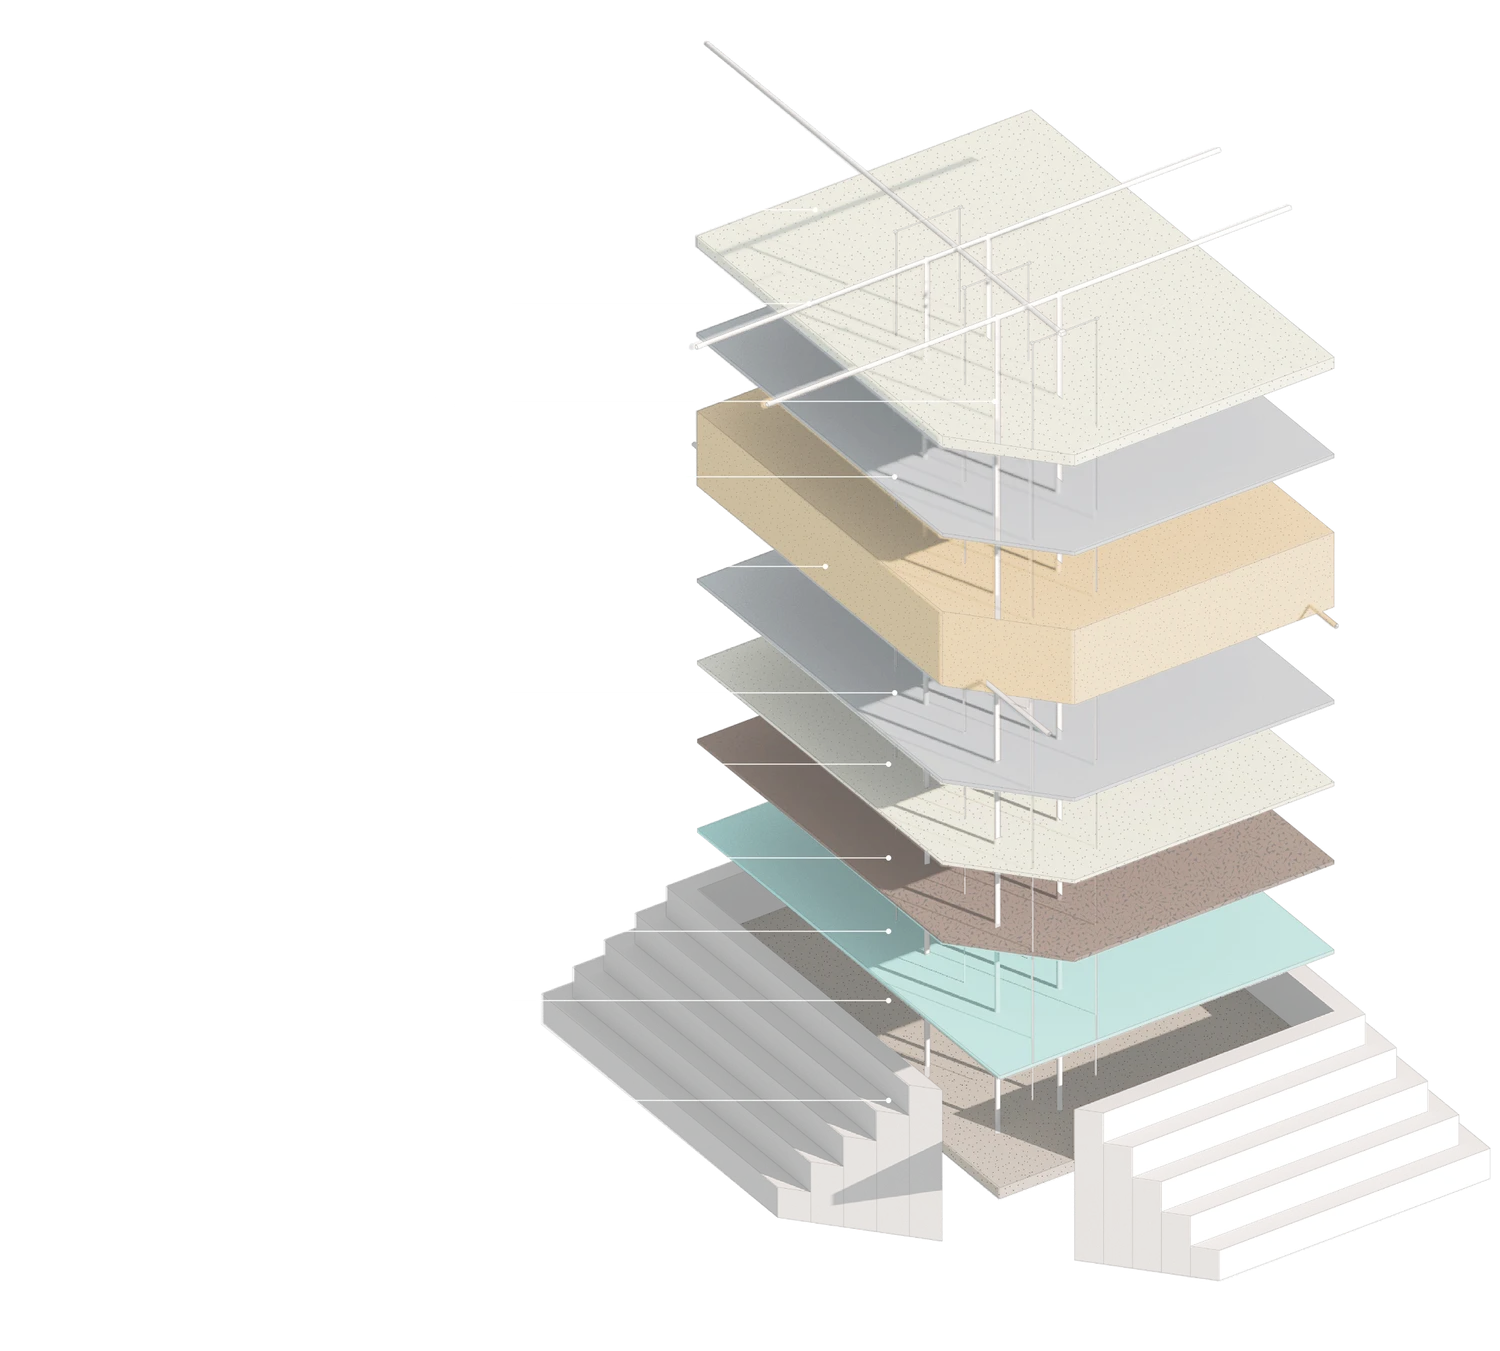
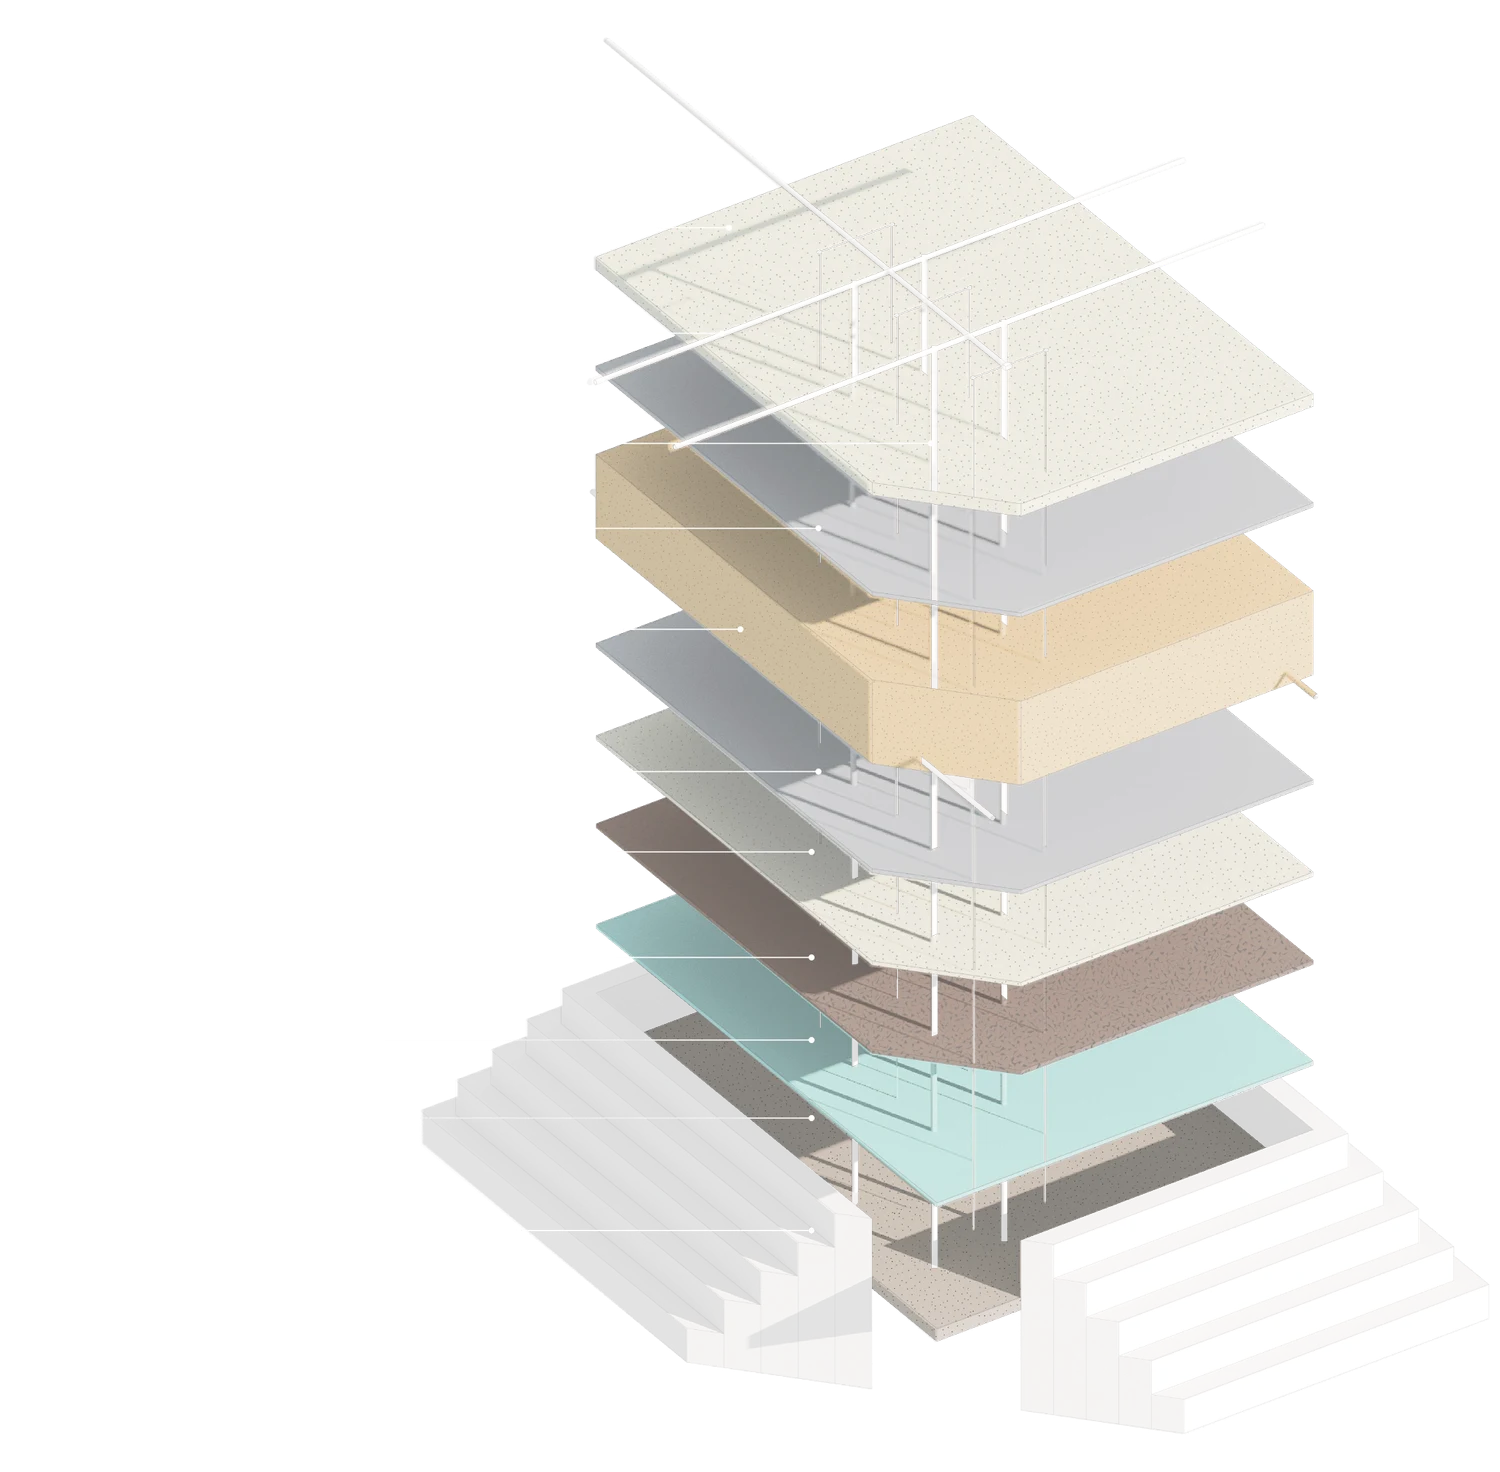
Brighten the method figures and tighten the diagram layout
Two review fixes on the white-label export pipeline:

- Brightness: the chroma-diff recovery kept the artwork's true interior
  semi-transparency, so the dark theme gradients bled through and the
  figures read darker than the original online export. The artwork is now
  composited onto white at asset-build time (alpha >= 0.5 goes opaque,
  soft edges stay soft), matching the bright online look.
- Spacing/size: crop the canvas dead margins (label gutter to 28% of the
  width, breathing room top/bottom) so the artwork renders ~15% larger at
  the same layout size and the labels sit closer to the figure. Leader
  rows re-measured pre-crop in the clean gutter and transformed through
  the crop; label anchors updated in methods.ts.
- The floating paper-grain specks (the "white crumbs") are removed as
  tiny connected components; grain on the artwork surfaces is untouched.

Claude-Session: https://claude.ai/code/session_0162ZbwK7cUKGE1rpfdzmk7Z

diff --git a/src/content/actions/methods.ts b/src/content/actions/methods.ts
@@ -52,20 +52,20 @@ export const METHODS: Method[] = [
     photo: landfillPhoto,
     imgAlt:
       'Exploded axonometric of the passive landfill, top to bottom: grass cap, soil, geocomposite layer, plastic (LLDPE) geomembrane, clay, the contaminant, plastic geomembrane, geocomposite layer, plastic geomembrane, clay, and the compacted soil subgrade.',
-    aspect: 1.1542,
-    labelX: 33.7,
+    aspect: 1.0192,
+    labelX: 25.6,
     layers: [
-      { text: 'Grass cap', y: 13.84 },
-      { text: 'Soil', y: 29.72 },
-      { text: 'Geocomposite layer', y: 36.89 },
-      { text: 'Plastic (LLDPE) geomembrane', y: 42.96 },
-      { text: 'Clay', y: 50.6 },
-      { text: 'Contaminant', y: 55.58 },
-      { text: 'Plastic (LLDPE) geomembrane', y: 62.75 },
-      { text: 'Geocomposite layer', y: 69.6 },
-      { text: 'Plastic (LLDPE) geomembrane', y: 73.65 },
-      { text: 'Clay', y: 80.04 },
-      { text: 'Compacted soil subgrade', y: 87.36 },
+      { text: 'Grass cap', y: 13.86 },
+      { text: 'Soil', y: 29.75 },
+      { text: 'Geocomposite layer', y: 36.92 },
+      { text: 'Plastic (LLDPE) geomembrane', y: 42.99 },
+      { text: 'Clay', y: 50.62 },
+      { text: 'Contaminant', y: 55.61 },
+      { text: 'Plastic (LLDPE) geomembrane', y: 62.77 },
+      { text: 'Geocomposite layer', y: 69.63 },
+      { text: 'Plastic (LLDPE) geomembrane', y: 73.68 },
+      { text: 'Clay', y: 80.06 },
+      { text: 'Compacted soil subgrade', y: 87.38 },
     ],
   },
   {
@@ -78,20 +78,20 @@ export const METHODS: Method[] = [
     photo: thermalPhoto,
     imgAlt:
       'Exploded axonometric of the thermal treatment pile, top to bottom: sand, offgas collecting pipe, heater well, metal sheet, the contaminant, metal sheet, sand, crushed stone, plastic liner, soil, and the brick pile base.',
-    aspect: 1.1101,
-    labelX: 34.0,
+    aspect: 1.0187,
+    labelX: 25.7,
     layers: [
-      { text: 'Sand', y: 15.51 },
-      { text: 'Offgas collecting pipe', y: 22.45 },
-      { text: 'Heater well', y: 29.69 },
-      { text: 'Metal sheet', y: 35.27 },
-      { text: 'Contaminant', y: 41.91 },
-      { text: 'Metal sheet', y: 51.26 },
-      { text: 'Sand', y: 56.54 },
-      { text: 'Crushed stone', y: 63.47 },
-      { text: 'Plastic liner', y: 68.9 },
-      { text: 'Soil', y: 74.03 },
-      { text: 'Brick pile', y: 81.42 },
+      { text: 'Sand', y: 15.48 },
+      { text: 'Offgas collecting pipe', y: 22.65 },
+      { text: 'Heater well', y: 30.13 },
+      { text: 'Metal sheet', y: 35.9 },
+      { text: 'Contaminant', y: 42.75 },
+      { text: 'Metal sheet', y: 52.42 },
+      { text: 'Sand', y: 57.87 },
+      { text: 'Crushed stone', y: 65.04 },
+      { text: 'Plastic liner', y: 70.65 },
+      { text: 'Soil', y: 75.95 },
+      { text: 'Brick pile', y: 83.58 },
     ],
   },
 ]
